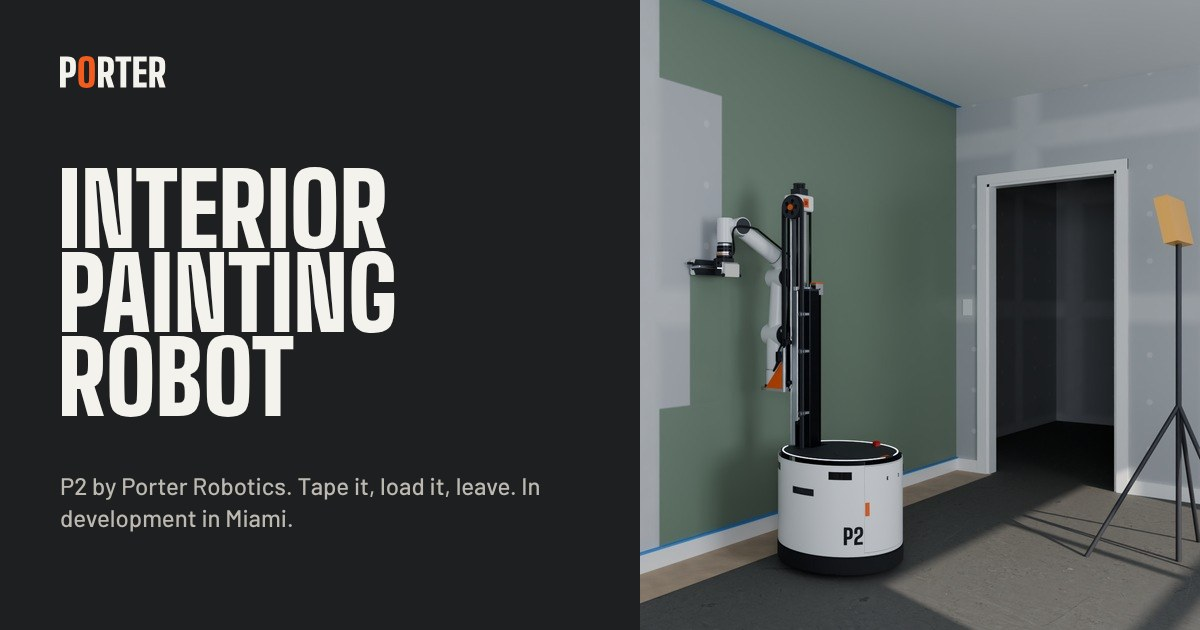
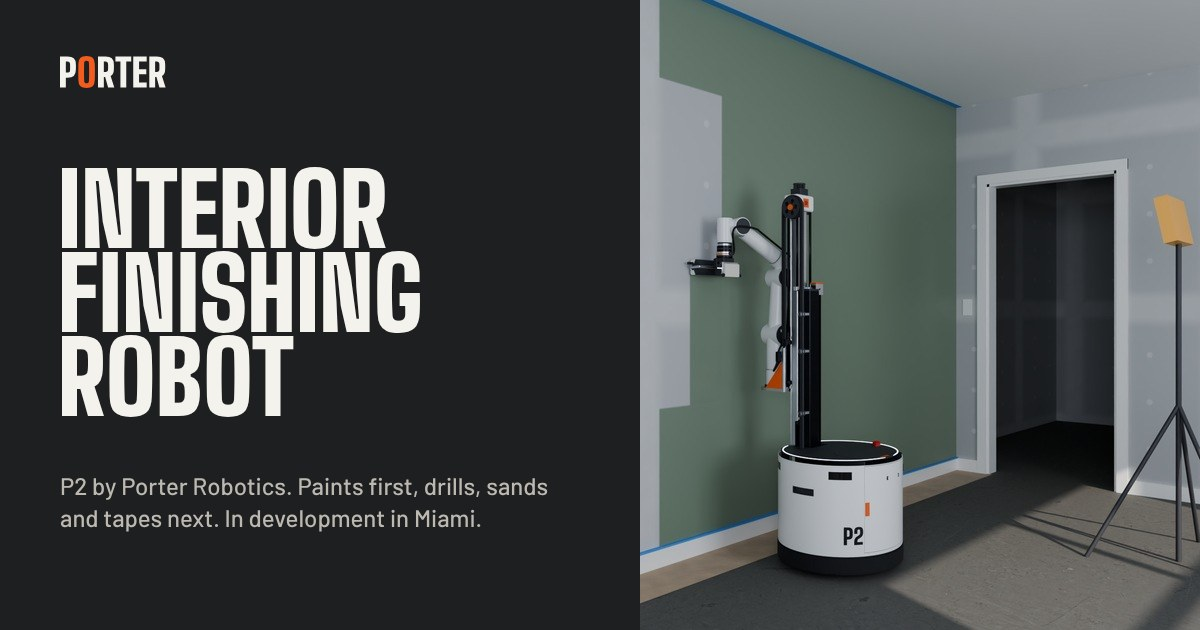
Position P2 as a multi tool interior finishing robot

Changed region(s): [[0.0617, 0.3921, 0.37, 0.5429], [0.0308, 0.8143, 0.4008, 0.8444], [0.2467, 0.754, 0.4625, 0.7841]]

diff --git a/index.html b/index.html
@@ -3,8 +3,8 @@
 <head>
 <meta charset="utf-8">
 <meta name="viewport" content="width=device-width, initial-scale=1, viewport-fit=cover">
-<title>P2 Painting Robot for Jobsites and Homes | Porter Robotics</title>
-<meta name="description" content="P2 is an interior painting robot in development in Miami, designed to roll walls and ceilings on its own and send a report when the room is done.">
+<title>P2 Interior Finishing Robot for Jobsites and Homes | Porter Robotics</title>
+<meta name="description" content="P2 is an interior finishing robot in development in Miami: one arm with swappable tools, painting first, with drilling, sanding and taping designed for the same Tool Port.">
 <link rel="canonical" href="https://urbanrobotics.com/">
 <meta name="referrer" content="strict-origin-when-cross-origin">
 <meta name="theme-color" content="#1E1F21">
@@ -15,13 +15,13 @@
 <link rel="manifest" href="site.webmanifest">
 <meta property="og:type" content="website">
 <meta property="og:site_name" content="Porter Robotics">
-<meta property="og:title" content="P2 Painting Robot for Jobsites and Homes | Porter Robotics">
-<meta property="og:description" content="P2 is an interior painting robot in development in Miami, designed to roll walls and ceilings on its own and send a report when the room is done.">
+<meta property="og:title" content="P2 Interior Finishing Robot for Jobsites and Homes | Porter Robotics">
+<meta property="og:description" content="P2 is an interior finishing robot in development in Miami: one arm with swappable tools, painting first, with drilling, sanding and taping designed for the same Tool Port.">
 <meta property="og:url" content="https://urbanrobotics.com/">
 <meta property="og:image" content="https://urbanrobotics.com/assets/img/og.jpg">
 <meta property="og:image:width" content="1200">
 <meta property="og:image:height" content="630">
-<meta property="og:image:alt" content="The headline Interior painting robot on graphite, beside a CAD rendering of P2 rolling sage paint onto taped drywall.">
+<meta property="og:image:alt" content="The headline Interior finishing robot on graphite, beside a CAD rendering of P2 rolling sage paint onto taped drywall.">
 <meta name="twitter:card" content="summary_large_image">
 <script type="application/ld+json">{"@context":"https://schema.org","@graph":[{"@type":"Organization","@id":"https://urbanrobotics.com/#org","name":"Porter Robotics","legalName":"Urban Robotics Technologies, Inc.","url":"https://urbanrobotics.com/","logo":"https://urbanrobotics.com/icon-512.png","email":"info@urbanrobotics.com","foundingDate":"2025","address":{"@type":"PostalAddress","addressLocality":"Miami","addressRegion":"FL","addressCountry":"US"},"founder":{"@id":"https://urbanrobotics.com/company.html#founder"},"description":"Porter Robotics builds robots for construction work, starting with P2, an interior painting robot for jobsites and homes, in development in Miami."},{"@type":"WebSite","@id":"https://urbanrobotics.com/#site","name":"Porter Robotics","url":"https://urbanrobotics.com/","publisher":{"@id":"https://urbanrobotics.com/#org"}},{"@type":"Person","@id":"https://urbanrobotics.com/company.html#founder","name":"Onat Cakici","jobTitle":"Founder","worksFor":{"@id":"https://urbanrobotics.com/#org"},"alumniOf":{"@type":"CollegeOrUniversity","name":"Florida Institute of Technology"},"sameAs":["https://www.linkedin.com/in/cakici/"]},{"@type":"VideoObject","name":"P2 at work","description":"A 30 second CAD animation of how P2 is designed to paint a room: it rolls in, rolls the wall lane by lane and shows the tools planned for the same arm.","thumbnailUrl":"https://urbanrobotics.com/assets/video/p2_film_poster.webp","contentUrl":"https://urbanrobotics.com/assets/video/p2_film_1080.mp4","uploadDate":"2026-10-30T23:30:00+00:00","duration":"PT30S","publisher":{"@id":"https://urbanrobotics.com/#org"}}]}</script>
 <meta http-equiv="Content-Security-Policy" content="default-src 'self'; img-src 'self'; style-src 'self'; font-src 'self'; script-src 'self'; object-src 'none'; base-uri 'self'; form-action 'none'">
@@ -77,13 +77,13 @@
       <img class="band-still" src="assets/img/demo_floor_1920.webp" srcset="assets/img/demo_floor_960.webp 960w, assets/img/demo_floor_1920.webp 1920w" sizes="(max-width: 759px) 150vw, 100vw" width="1920" height="1080" alt="CAD animation that starts outside a finished tower with scaffolding and a crane, moves in through a window to an unpainted floor, and follows P2 as it drives from room to room along its route." loading="lazy" decoding="async">
       <div class="hero-copy wrap">
         <p class="hero-tag">In development</p>
-        <h1 id="top-h">Interior<br>painting<br>robot</h1>
-        <p class="hero-say">Tape it. Load it. Leave.</p>
+        <h1 id="top-h">Interior<br>finishing<br>robot</h1>
+        <p class="hero-say">Paints first. Drills, sands and tapes next.</p>
       </div>
     </div>
     <p class="hero-cap wrap"><label for="pause-hero" class="band-btn"><span class="p">Pause</span><span class="r">Play</span></label></p>
     <div class="hero-more wrap">
-      <p class="lead">P2 rolls interior walls and ceilings. Prep the room the way you would for a painter, pour in the paint, and P2 is designed to do the rolling and the cutting in on its own.</p>
+      <p class="lead">P2 is one robot with one arm and a Tool Port that takes different tools. Paint comes first: prep the room the way you would for a painter, pour in the paint, and P2 is designed to roll and cut in on its own. A drill, a sander and a taping head are designed for the same arm.</p>
       <div>
         <p class="stage">P2 has not been built yet. The images are CAD renderings, and the numbers come from our simulations. We are building the first bench rig in Miami, and during pilots our team will stay on site.</p>
         <div class="actions">

diff --git a/company.html b/company.html
@@ -4,7 +4,7 @@
 <meta charset="utf-8">
 <meta name="viewport" content="width=device-width, initial-scale=1, viewport-fit=cover">
 <title>Company and founder | Porter Robotics</title>
-<meta name="description" content="Porter Robotics builds robots for construction work, starting with P2, a painting robot for jobsites and homes. Founded in Miami by aerospace engineer Onat Cakici.">
+<meta name="description" content="Porter Robotics builds robots for construction work, starting with P2, a multi tool finishing robot for jobsites and homes. Founded in Miami by aerospace engineer Onat Cakici.">
 <link rel="canonical" href="https://urbanrobotics.com/company.html">
 <meta name="referrer" content="strict-origin-when-cross-origin">
 <meta name="theme-color" content="#1E1F21">
@@ -16,7 +16,7 @@
 <meta property="og:type" content="website">
 <meta property="og:site_name" content="Porter Robotics">
 <meta property="og:title" content="Company and founder | Porter Robotics">
-<meta property="og:description" content="Porter Robotics builds robots for construction work, starting with P2, a painting robot for jobsites and homes. Founded in Miami by aerospace engineer Onat Cakici.">
+<meta property="og:description" content="Porter Robotics builds robots for construction work, starting with P2, a multi tool finishing robot for jobsites and homes. Founded in Miami by aerospace engineer Onat Cakici.">
 <meta property="og:url" content="https://urbanrobotics.com/company.html">
 <meta property="og:image" content="https://urbanrobotics.com/assets/img/og_company.jpg">
 <meta property="og:image:width" content="1200">
@@ -67,7 +67,7 @@
 <div class="dark">
   <section class="co-hero wrap" aria-labelledby="top-h">
     <h1 id="top-h">Robots for construction work</h1>
-    <p class="lead">We start with paint. Porter Robotics is a robotics company in Miami building P2, an interior painting robot for jobsites and homes. P2 is in development: the CAD design is done, and bench tests on real walls come next.</p>
+    <p class="lead">We start with paint. Porter Robotics is a robotics company in Miami building P2, an interior finishing robot with swappable tools, starting with paint. P2 is in development: the CAD design is done, and bench tests on real walls come next.</p>
   </section>
 </div>
 
@@ -127,7 +127,7 @@
       <dl class="specs">
         <div><dt>Name</dt><dd>Porter Robotics is a brand of Urban Robotics Technologies, Inc., a Delaware corporation</dd></div>
         <div><dt>Based in</dt><dd>Miami, Florida</dd></div>
-        <div><dt>First product</dt><dd>P2, an interior painting robot for jobsites and homes</dd></div>
+        <div><dt>First product</dt><dd>P2, an interior finishing robot with swappable tools, painting first</dd></div>
         <div><dt>Stage</dt><dd>In development: the CAD design is done, bench tests come next</dd></div>
         <div><dt>Contact</dt><dd><a href="mailto:info@urbanrobotics.com?subject=Porter%20Robotics">info@urbanrobotics.com</a>, for pilots, investors and press</dd></div>
       </dl>

diff --git a/p2.html b/p2.html
@@ -3,7 +3,7 @@
 <head>
 <meta charset="utf-8">
 <meta name="viewport" content="width=device-width, initial-scale=1, viewport-fit=cover">
-<title>P2, the painting robot: specs, tools and safety | Porter Robotics</title>
+<title>P2, the interior finishing robot: specs, tools and safety | Porter Robotics</title>
 <meta name="description" content="How P2 is built: a round base, a two stage mast and a six axis arm with one Tool Port. Specs, drawings, safety and the tools planned for later.">
 <link rel="canonical" href="https://urbanrobotics.com/p2.html">
 <meta name="referrer" content="strict-origin-when-cross-origin">
@@ -15,7 +15,7 @@
 <link rel="manifest" href="site.webmanifest">
 <meta property="og:type" content="website">
 <meta property="og:site_name" content="Porter Robotics">
-<meta property="og:title" content="P2, the painting robot: specs, tools and safety | Porter Robotics">
+<meta property="og:title" content="P2, the interior finishing robot: specs, tools and safety | Porter Robotics">
 <meta property="og:description" content="How P2 is built: a round base, a two stage mast and a six axis arm with one Tool Port. Specs, drawings, safety and the tools planned for later.">
 <meta property="og:url" content="https://urbanrobotics.com/p2.html">
 <meta property="og:image" content="https://urbanrobotics.com/assets/img/og_p2.jpg">
@@ -189,9 +189,9 @@
 
   <section class="section" id="tools" aria-labelledby="tools-h"><div class="wrap">
     <div class="split tools-head">
-      <h2 id="tools-h">Paint first</h2>
+      <h2 id="tools-h">One arm, many tools</h2>
       <div class="body">
-        <p>Painting is the only tool we are building. The arm and the Tool Port are made so that later tools can fit the same robot, and we have drawn a few of them in CAD to test the idea. They are concepts, not products: none is built, and which ones come next will depend on what pilot customers need.</p>
+        <p>P2 is built around one arm and one Tool Port, so the same robot can follow a job from bare drywall to the last coat: drill, tape, sand, spray, paint and more. Every tool here is designed in CAD. Paint is the first one we are building, and pilot customers will decide which comes next.</p>
       </div>
     </div>
   <div class="swapper">

diff --git a/404.html b/404.html
@@ -19,7 +19,7 @@
 <meta property="og:image" content="https://urbanrobotics.com/assets/img/og.jpg">
 <meta property="og:image:width" content="1200">
 <meta property="og:image:height" content="630">
-<meta property="og:image:alt" content="The headline Interior painting robot on graphite, beside a CAD rendering of P2 rolling sage paint onto taped drywall.">
+<meta property="og:image:alt" content="The headline Interior finishing robot on graphite, beside a CAD rendering of P2 rolling sage paint onto taped drywall.">
 <meta name="twitter:card" content="summary_large_image">
 <meta name="robots" content="noindex">
 <meta http-equiv="Content-Security-Policy" content="default-src 'self'; img-src 'self'; style-src 'self'; font-src 'self'; script-src 'self'; object-src 'none'; base-uri 'self'; form-action 'none'">

diff --git a/privacy.html b/privacy.html
@@ -21,7 +21,7 @@
 <meta property="og:image" content="https://urbanrobotics.com/assets/img/og.jpg">
 <meta property="og:image:width" content="1200">
 <meta property="og:image:height" content="630">
-<meta property="og:image:alt" content="The headline Interior painting robot on graphite, beside a CAD rendering of P2 rolling sage paint onto taped drywall.">
+<meta property="og:image:alt" content="The headline Interior finishing robot on graphite, beside a CAD rendering of P2 rolling sage paint onto taped drywall.">
 <meta name="twitter:card" content="summary_large_image">
 
 <meta http-equiv="Content-Security-Policy" content="default-src 'self'; img-src 'self'; style-src 'self'; font-src 'self'; script-src 'self'; object-src 'none'; base-uri 'self'; form-action 'none'">

diff --git a/terms.html b/terms.html
@@ -21,7 +21,7 @@
 <meta property="og:image" content="https://urbanrobotics.com/assets/img/og.jpg">
 <meta property="og:image:width" content="1200">
 <meta property="og:image:height" content="630">
-<meta property="og:image:alt" content="The headline Interior painting robot on graphite, beside a CAD rendering of P2 rolling sage paint onto taped drywall.">
+<meta property="og:image:alt" content="The headline Interior finishing robot on graphite, beside a CAD rendering of P2 rolling sage paint onto taped drywall.">
 <meta name="twitter:card" content="summary_large_image">
 
 <meta http-equiv="Content-Security-Policy" content="default-src 'self'; img-src 'self'; style-src 'self'; font-src 'self'; script-src 'self'; object-src 'none'; base-uri 'self'; form-action 'none'">
